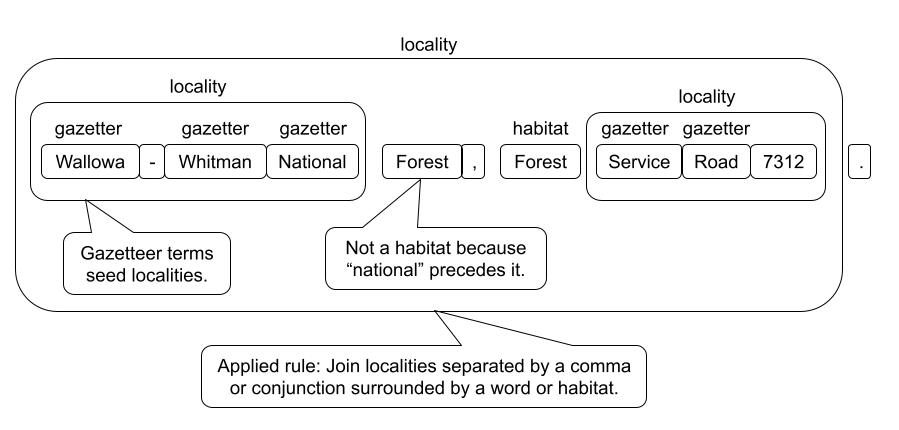
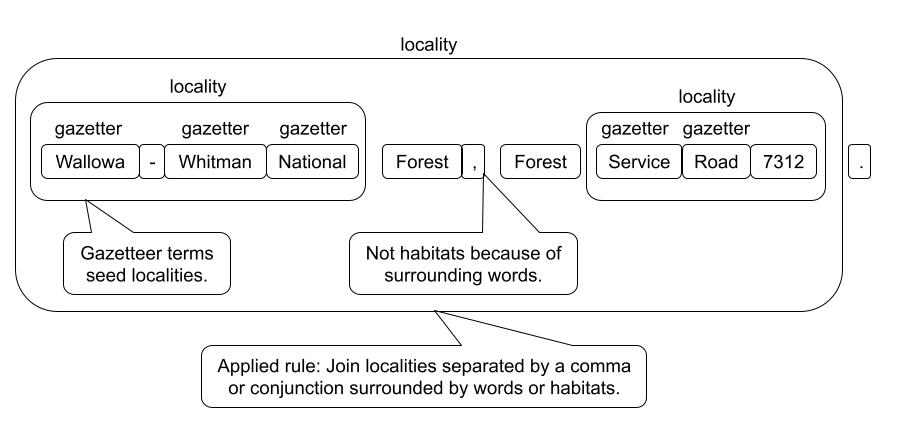
Update terms and parsers

diff --git a/labels/pylib/rules/locality.py b/labels/pylib/rules/locality.py
@@ -20,7 +20,9 @@ TOO_LONG = 2
 class Locality(Base):
     # Class vars ----------
     # Traits at ends of locality phrases
-    outer_traits: ClassVar[list[str]] = " habitat admin_unit subpart count".split()
+    outer_traits: ClassVar[list[str]] = """"
+        admin_unit count habitat id_number subpart
+        """.split()
 
     all_traits: ClassVar[list[str]] = [*outer_traits, "color"]
 
@@ -68,6 +70,7 @@ class Locality(Base):
                 overwrite=["locality", *cls.all_traits],
             )
 
+        # add.debug_tokens(nlp)  # #############################################
         add.trait_pipe(
             nlp,
             name="end_locality",
@@ -76,7 +79,29 @@ class Locality(Base):
         )
         # add.debug_tokens(nlp)  # #############################################
 
-        add.cleanup_pipe(nlp, name="locality_cleanup")
+        add.cleanup_pipe(nlp, name="locality_cleanup", delete=["not_locality"])
+
+    @classmethod
+    def not_locality_patterns(cls):
+        decoder = {
+            "not_loc": {"ENT_TYPE": "not_loc"},
+            "bad_prefix": {"ENT_TYPE": "not_loc_prefix"},
+            "bad_suffix": {"ENT_TYPE": "not_loc_suffix"},
+        }
+        return [
+            Compiler(
+                label="not_locality",
+                keep="not_locality",
+                on_match="not_locality_match",
+                decoder=decoder,
+                patterns=[
+                    " not_loc+ ",
+                    " bad_prefix+ loc* ",
+                    "             loc* bad_suffix+ ",
+                    " bad_prefix+ loc* bad_suffix+ ",
+                ],
+            ),
+        ]
 
     @classmethod
     def locality_patterns(cls):
@@ -85,6 +110,7 @@ class Locality(Base):
             "'s": {"POS": "PART"},
             "9": {"LIKE_NUM": True},
             "and": {"POS": {"IN": "ADP AUX CCONJ DET NUM SCONJ SPACE".split()}},
+            "id_num": {"ENT_TYPE": "id_number"},
             "label": {"ENT_TYPE": "loc_label"},
             "loc": {"ENT_TYPE": "loc"},
             "sp": {"IS_SPACE": True},
@@ -106,6 +132,14 @@ class Locality(Base):
                     "9? loc+ and+ loc+ and+ loc+ and+ loc+ and+ loc+ 9?",
                     "9? loc+ trait 9?",
                     "9? loc+ word loc+ 9?",
+                    "id_num? loc+ 's?  loc+ id_num?",
+                    "id_num? loc+ ,+   loc+ id_num?",
+                    "id_num? loc+ and+ loc+ id_num?",
+                    "id_num? loc+ and+ loc+ and+ loc+ id_num?",
+                    "id_num? loc+ and+ loc+ and+ loc+ and+ loc+ id_num?",
+                    "id_num? loc+ and+ loc+ and+ loc+ and+ loc+ and+ loc+ id_num?",
+                    "id_num? loc+ trait+ id_num?",
+                    "id_num? loc+ word loc+ id_num?",
                 ],
             ),
         ]
@@ -121,6 +155,7 @@ class Locality(Base):
                     ",": {"TEXT": {"IN": cls.punct}},
                     "9": {"LIKE_NUM": True},
                     "and": {"POS": {"IN": "ADP AUX CCONJ DET NUM SCONJ SPACE".split()}},
+                    "id_num": {"ENT_TYPE": "id_number"},
                     "loc": {"ENT_TYPE": "loc"},
                     "locality": {"ENT_TYPE": "locality"},
                     "rt": {"LOWER": {"REGEX": r"^\w[\w.]{,2}$"}},
@@ -129,10 +164,12 @@ class Locality(Base):
                     "word": {"IS_ALPHA": True},
                 },
                 patterns=[
-                    "sent_start+ 9?  ,? locality+",
+                    "sent_start+ 9?        ,? locality+",
+                    "sent_start+ id_num?  ,? locality+",
                     "locality+   rt* ,? rt* ,? rt+",
                     "            rt* ,? rt* ,? rt+      locality+",
-                    "locality+   word ,? 9? ,? trait*   locality+",
+                    "locality+   word ,? 9?      ,? trait*   locality+",
+                    "locality+   word ,? id_num? ,? trait*   locality+",
                     "locality+   word? ,? and? trait* and? ,? locality+",
                     "locality+   word? ,? and? trait* and? ,? loc+",
                     "loc+        word? ,? and? trait* and? ,? locality+",
@@ -147,6 +184,7 @@ class Locality(Base):
             ".": {"TEXT": {"IN": t_const.DOT + t_const.SEMICOLON + t_const.Q_MARK}},
             "9": {"LIKE_NUM": True},
             "not_eol": {"LOWER": {"REGEX": r"^[^\n\r;.]+$"}},
+            "id_num": {"ENT_TYPE": "id_number"},
             "label": {"ENT_TYPE": "loc_label"},
             "locality": {"ENT_TYPE": "locality"},
             "in_sent": {"IS_SENT_START": False},
@@ -162,9 +200,10 @@ class Locality(Base):
                 decoder=decoder,
                 keep="locality",
                 patterns=[
-                    "locality+ ,? sp? word? sp? trait+ .",
-                    "locality+ ,? sp? word? sp? 9+ .",
-                    "locality+ ,? sp? word+ sp? .",
+                    "locality+ ,? sp? word? sp?    trait+ .",
+                    "locality+ ,? sp? word? sp? .? 9+ .?",
+                    "locality+ ,? sp? word? sp? .? id_num+ .?",
+                    "locality+ ,? sp? word+ sp?    .",
                 ],
             ),
             Compiler(
@@ -219,10 +258,19 @@ class Locality(Base):
                 break
         return cls.from_ent(ent, locality=ent[i:].text, labeled=True)
 
+    @classmethod
+    def not_locality_match(cls, ent):
+        return cls.from_ent(ent)
+
 
 @registry.misc("locality_match")
 def locality_match(ent):
     return Locality.locality_match(ent)
+
+
+@registry.misc("not_locality_match")
+def not_locality_match(ent):
+    return Locality.not_locality_match(ent)
 
 
 @registry.misc("labeled_locality_match")

diff --git a/tests/test_label.py b/tests/test_label.py
@@ -8,15 +8,19 @@ class TestLabel(unittest.TestCase):
 
     # def test_label_01(self):
     #     all_dwc("""
-    #         ANNOTATION LABEL
-    #          Eclipta prostrata (L.) L
-    #          Det. Ronald L. McGregor April 1983
-    #          Plants of KANSAS -
-    #          Eclipta alba (L) Hassk.
-    #          Neosho County
-    #          3 mi of Walnut
-    #          bed oF Tentrock Creek
-    #          September 3, 1963
-    #          W,, Holland 227
-    #          The University of Kansas Lawrence, Kansas
+    #         HERBARIUM OF CALIFORNIA STATE UNIVERSITY, CHICO
+    #          Silene occidentalis S. Watson ssp. occidentalis
+    #          Plumas County, CALIFORNIA Elevation 1707 m
+    #          T23N, R8E, NE%/ of SE% of sec. 23 Lat: N 39' 50' 22"
+    #          Dogwood Peak quad Long: W 121° 02' 45"
+    #          Northern High Sierra Nevada. Top of south-facing slope overlook-
+    #          wing Middle Fork Feather River; head of Sherman Creek. Wildfire
+    #          killed mixed conifer forest (Ponderosa pine, white fir, black oak,
+    #          incense cedar; Arctostaphylos patula, Garrya fremontii, Prunus
+    #          emarginata, Ceanothus cordulatus; Monardella odoratissima ssp.
+    #          pallida, Helianthella californica var. nevadensis, Nama lobbii,
+    #          Symphoricarpos mollis, Wyethia mollis, Eriogonum nudum, Carex
+    #          brainerdii. Stems strictly erecta; flowers greenish-yellow; plants
+    #          very sticky.
+    #          L. P. Janeway 7259 3/VII/2001
     #     """)

diff --git a/labels/pylib/rules/job.py b/labels/pylib/rules/job.py
@@ -75,6 +75,7 @@ class Job(Base):
     @classmethod
     def pipe(cls, nlp: Language):
         add.term_pipe(nlp, name="job_terms", path=cls.all_csvs)
+        # add.debug_tokens(nlp)  # ################################################
 
         add.trait_pipe(
             nlp,
@@ -83,6 +84,7 @@ class Job(Base):
             overwrite=["name", "job_label"],
             keep=[*ACCUMULATOR.keep, "not_name"],
         )
+        # add.debug_tokens(nlp)  # ################################################
 
         add.trait_pipe(
             nlp,
@@ -91,6 +93,7 @@ class Job(Base):
             overwrite=["other_label", "job", "name"],
             keep=[*ACCUMULATOR.keep, "not_name"],
         )
+        # add.debug_tokens(nlp)  # ################################################
 
         add.trait_pipe(
             nlp,
@@ -99,6 +102,7 @@ class Job(Base):
             overwrite=["job"],
             keep=[*ACCUMULATOR.keep, "not_name"],
         )
+        # add.debug_tokens(nlp)  # ################################################
 
         add.trait_pipe(
             nlp,

diff --git a/labels/pylib/rules/id_number.py b/labels/pylib/rules/id_number.py
@@ -58,6 +58,7 @@ class IdNumber(Base):
             name="not_id_num_patterns",
             compiler=cls.not_id_num_patterns(),
         )
+        # add.debug_tokens(nlp)  # ################################################
 
         add.trait_pipe(
             nlp,
@@ -93,14 +94,14 @@ class IdNumber(Base):
                     "bad_prefix+ id1+ no_space+ id1",
                     "bad_prefix+ id1+ no_space+ id2",
                     "bad_prefix+ id1",
-                    "bad_prefix+ id1",
                     "bad_prefix+ id1+ no_space+ id1 bad_suffix+",
                     "bad_prefix+ id1+ no_space+ id2 bad_suffix+",
                     "bad_prefix+ id1                bad_suffix+",
                     "            id1+ no_space+ id1 bad_suffix+",
                     "            id1+ no_space+ id2 bad_suffix+",
                     "            id1                bad_suffix+",
-                    " bad_leader bad_follower",
+                    "bad_leader  bad_follower",
+                    "id1 bad_suffix+ id1",
                 ],
             ),
         ]

diff --git a/tests/rules/test_locality.py b/tests/rules/test_locality.py
@@ -282,3 +282,16 @@ class TestLocality(unittest.TestCase):
             parse("""M a fo C1 Vi 1"""),
             [],
         )
+
+    def test_locality_17(self):
+        self.assertEqual(
+            parse("""Cheyenne Crossing on US Hwy. 85"""),
+            [
+                Locality(
+                    trait="locality",
+                    start=0,
+                    end=31,
+                    locality="Cheyenne Crossing on US Hwy. 85",
+                ),
+            ],
+        )

diff --git a/README.md b/README.md
@@ -3,17 +3,9 @@
 Extract traits about plants from labels on herbarium sheets.
 
 ## All right, what's this all about then?
-**Challenge**: Extract trait information from labels on herbarium sheets. That is, if I'm given label text like: (Reformatted to emphasize targeted fields.)
-
-![Label](assets/text.png)
-
-I should be able to extract: (Colors correspond to the text above.)
-
-![Traits](assets/traits.png)
-
-## Rule-based parsing
 
 The task is take text like this:
+
 ```
 Herbarium of
 San Diego State College
@@ -23,7 +15,9 @@ Hiking Trail north of Descanso.
 13 May 1967 San Diego Co., Calif.
 Coll: R.M. Beauchamp No. 484
 ```
+
 And convert it into a machine-readable Darwin Core format like:
+
 ```json
 {
     "dwc:eventDate": "1967-05-13",
@@ -39,6 +33,7 @@ And convert it into a machine-readable Darwin Core format like:
     "dwc:taxonRank": "species"
 }
 ```
+
 Of course, the OCRed input text and the resulting JSON are not always this clean.
 
 ### Strategy
@@ -49,13 +44,13 @@ LabelTraiter uses a multistep approach to parse text into traits. The rules them
 2. We use expert identified terms to label terms using spaCy's phrase matchers. These are sometimes traits themselves, but are more often used as anchors for more complex patterns of traits.
 3. We then build up more complex terms from simpler terms using spaCy's rule-based matchers repeatedly until there is a recognizable trait. See the image below.
 4. Depending on the trait we may then link traits to each other (entity relationships) using also spaCy rules.
-   1. Typically, a trait gets linked to a higher level entity like SPECIES <--- FLOWER <--- {COLOR, SIZE, etc.} and not peer to peer like PERSON <---> ORG.
+   1. Typically, a trait gets linked to a higher level entity like SPECIES <--- FLOWER <--- {COLOR, SIZE, etc.}.
 
 As an example of parsing a locality is shown below:
 
 ![<img src="assets/locality_parsing.jpg" width="700" />](assets/locality_parsing.jpg)
 
-The rules can become complex and the vocabularies for things like taxa, or a gazetteer can be huge, but you should get the idea of what is involved in label parsing.
+The rules can become complex and the vocabularies for things like taxa, or a gazetteer can be huge, but the image above should get the idea of what is involved in label parsing.
 
 LabelTraiter was originally developed to parse plant treatments and was later adapted to parse label text. As such, it does have some issues with parsing label text. When dealing with treatments the identification of traits/terms is fairly easy and the linking of traits to their proper plant part is only slightly more difficult.
 
